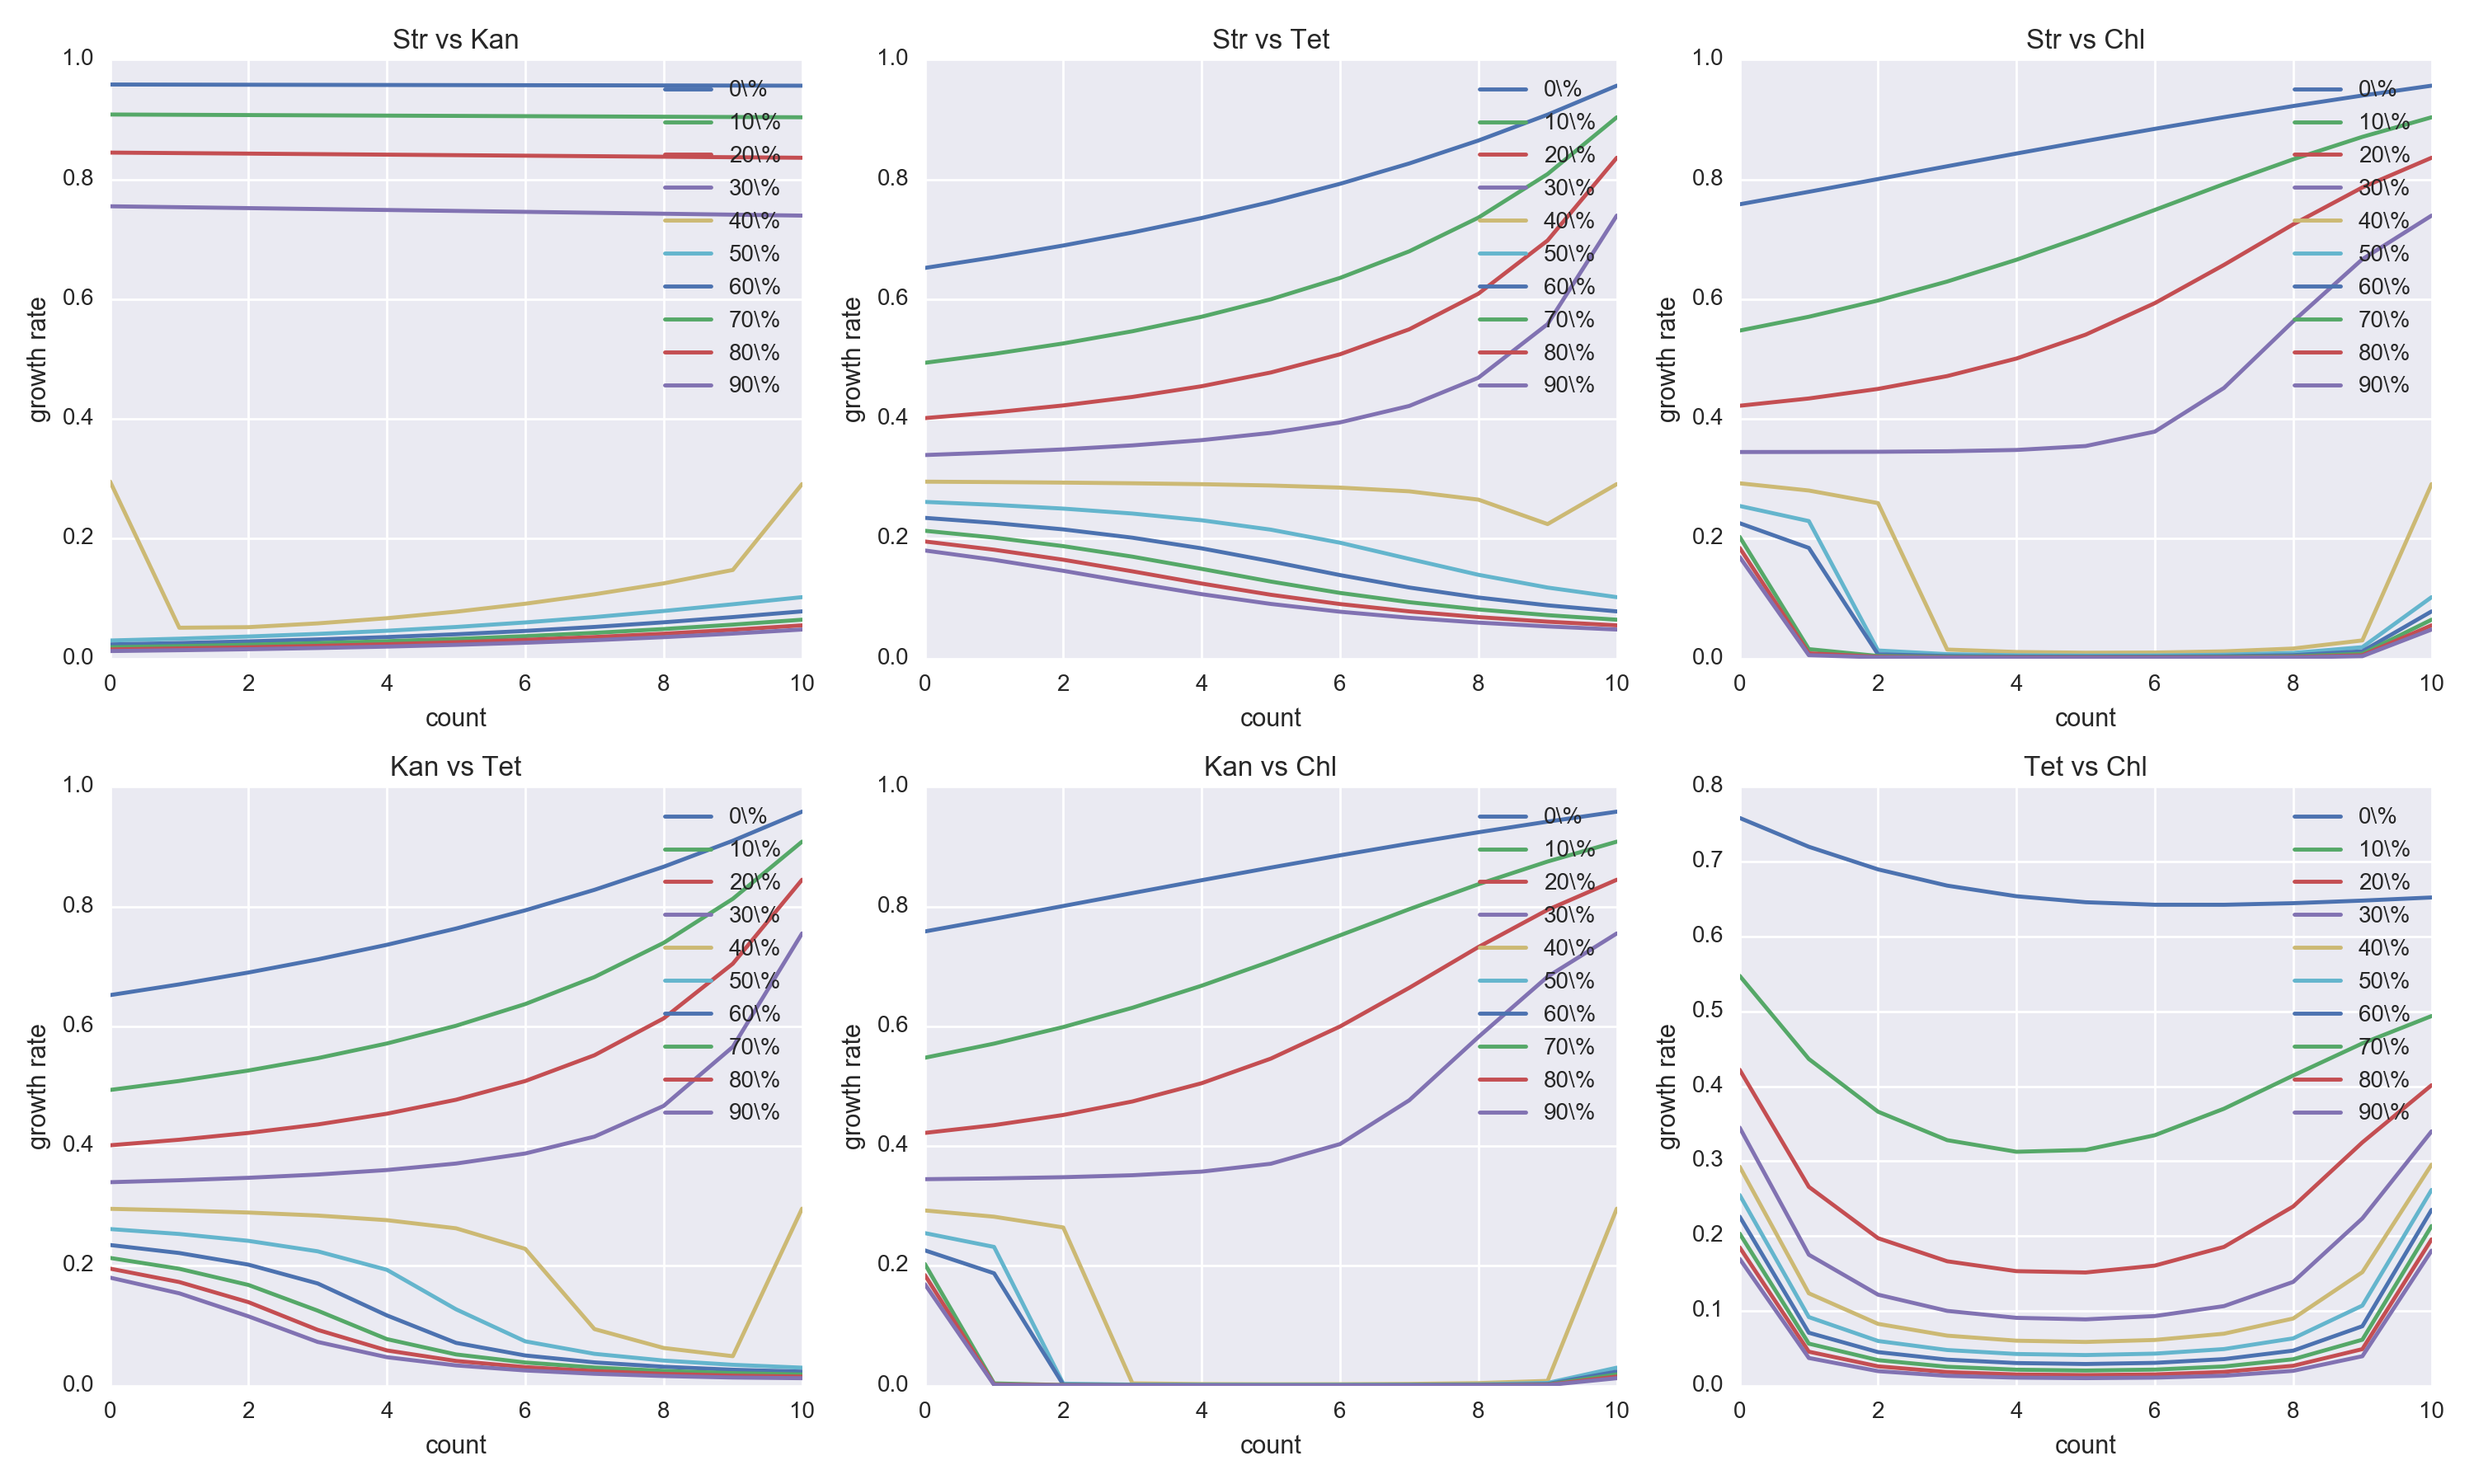
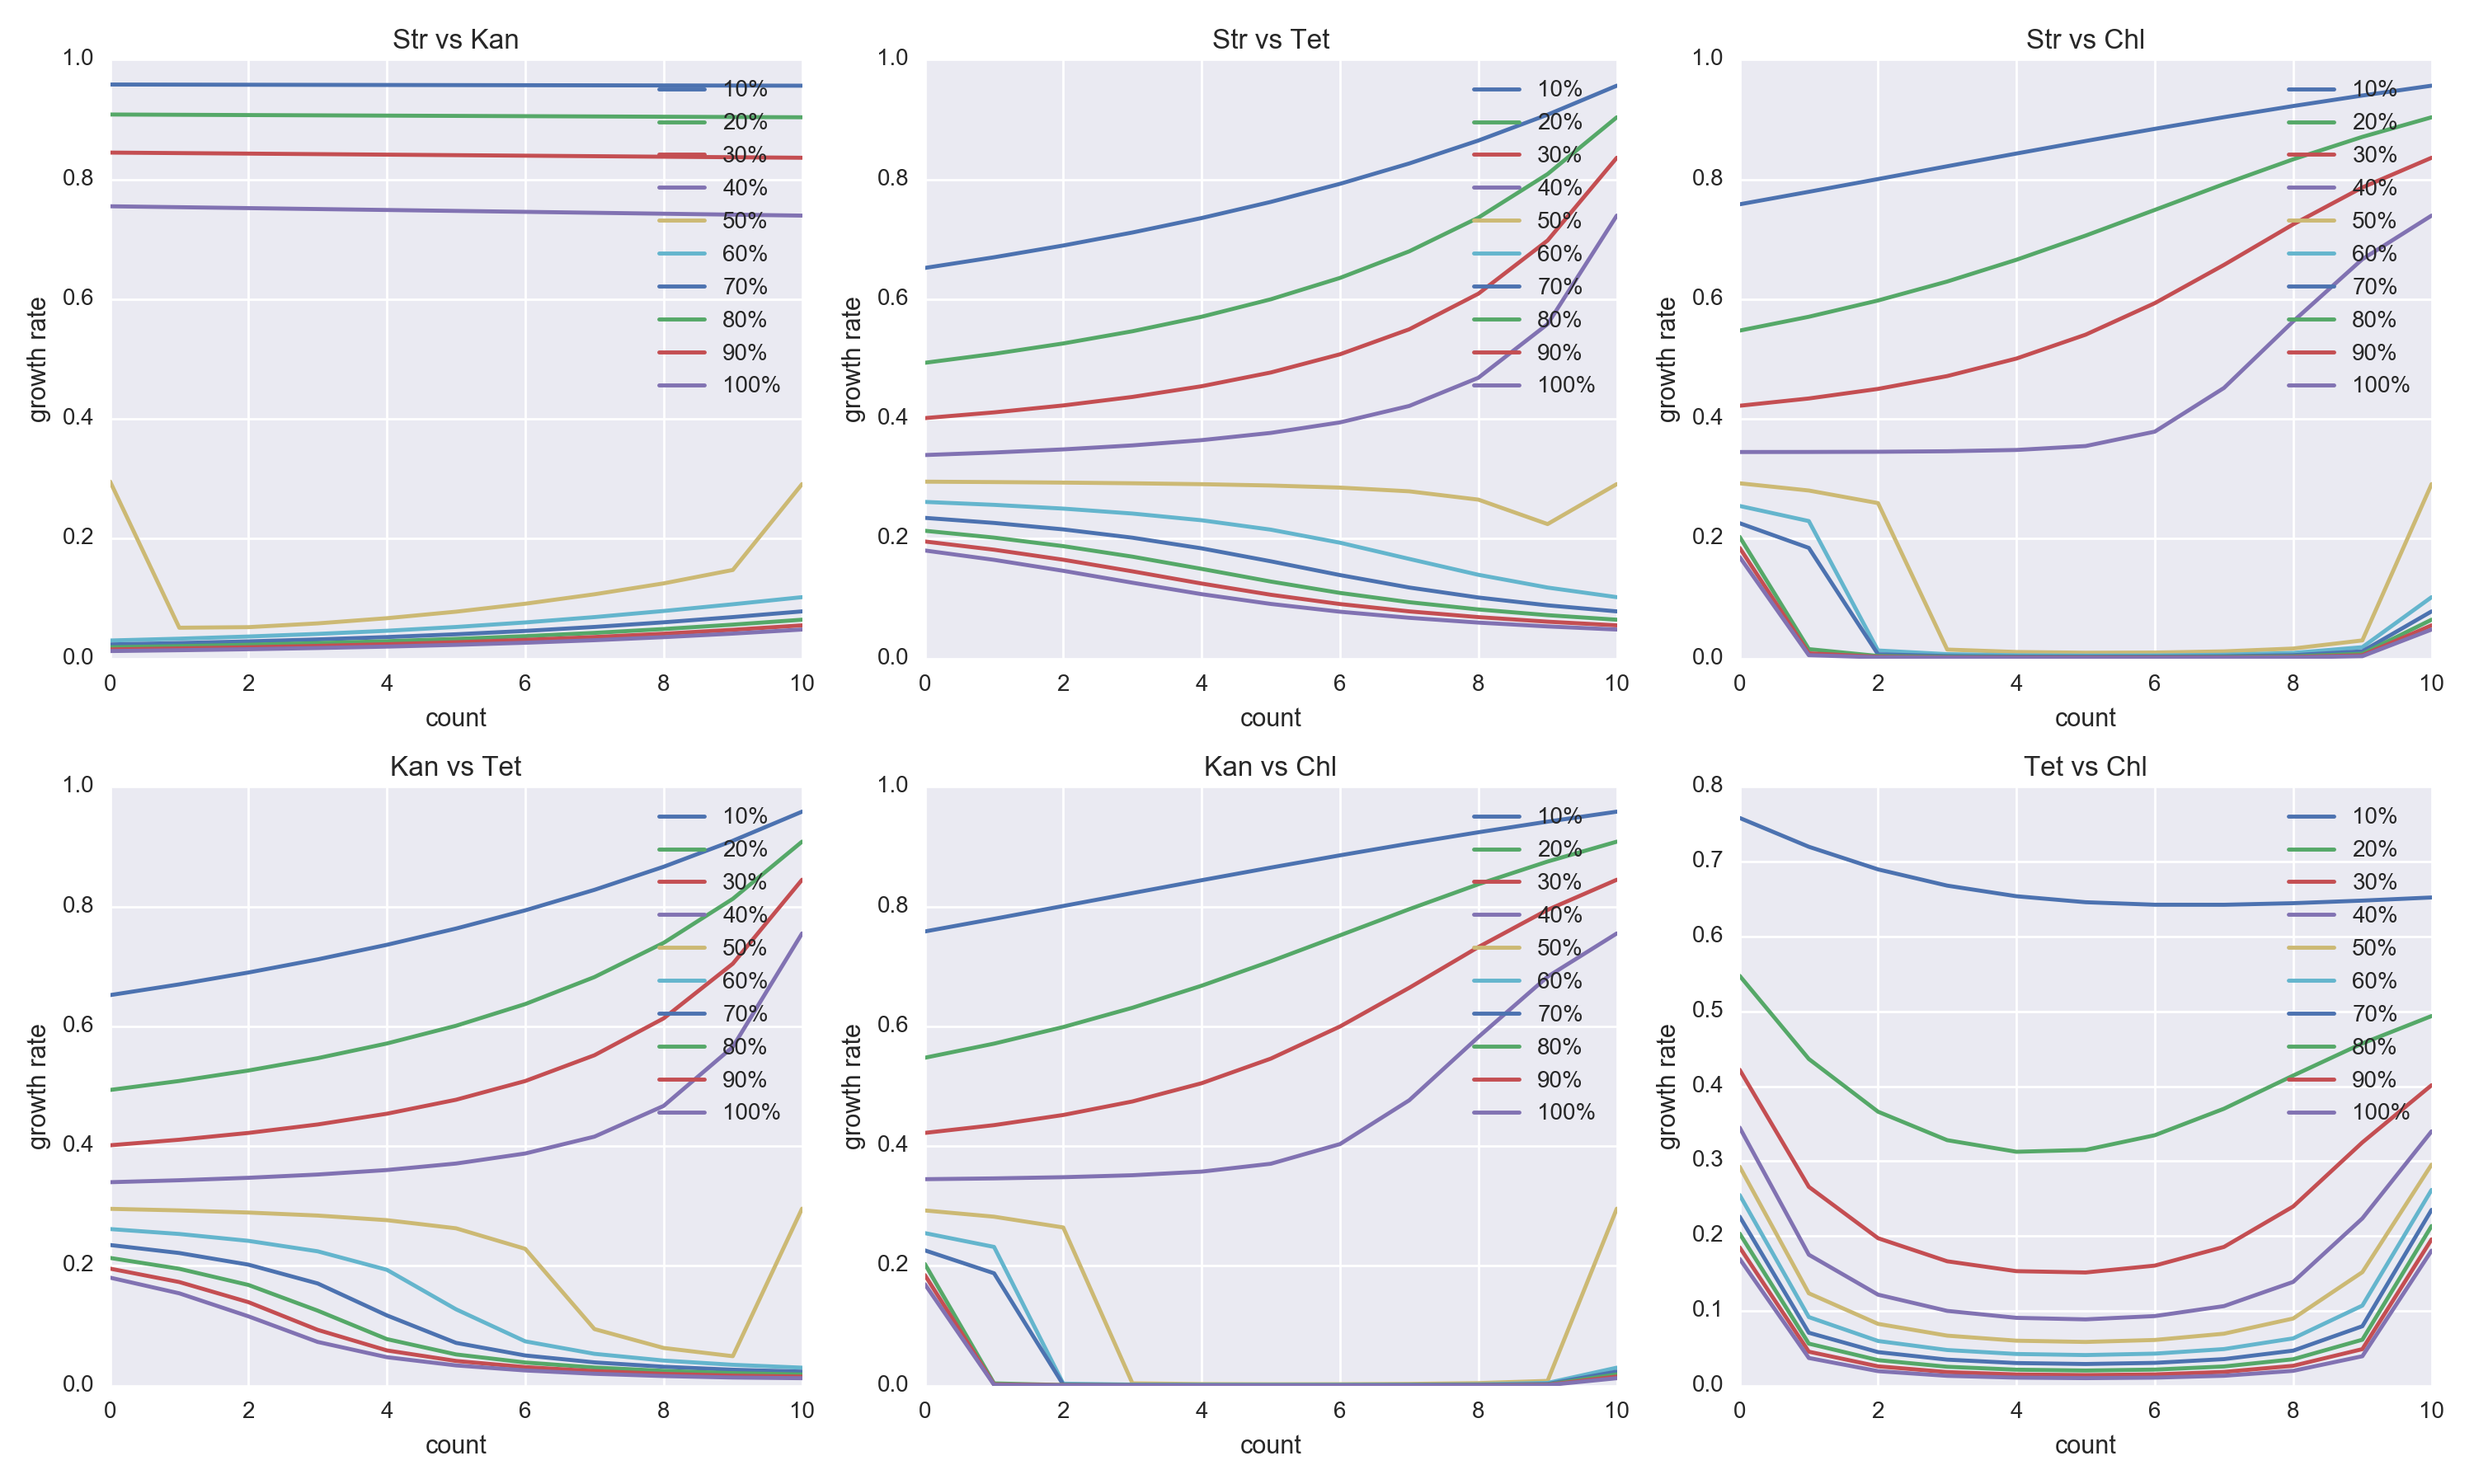
line chartの微修正

diff --git a/ribo4.py b/ribo4.py
@@ -259,11 +259,14 @@ def calcGrowthrate(a, r_min=19.3, K_t=6.1*10**-2, Lambda_0=1.35):
     result = (a - r_min) * K_t / Lambda_0
     return result
 
-def checkLinerType(a):
+def checkLinerType(inp):
+    """
+    input: growth rate list
+    """
     num = 0
     before = 0
     count = 0
-    for index, i in enumerate(a):
+    for index, i in enumerate(inp):
         if index > 0:
             if before == 0:
                 if num < i: # 増えてるとき
@@ -470,7 +473,7 @@ if __name__ == "__main__":
         data = np.array(result_list)
         plt.subplot(2, 3, index+1)
         for i in range(len(data.T)-1):
-            plt.plot(data.T[0], data.T[i + 1], label="{}\%".format(i * 10))
+            plt.plot(data.T[0], data.T[i + 1], label="{}%".format((i + 1) * 10))
         plt.xlabel("count")
         plt.ylabel("growth rate")
         plt.legend(loc="upper right")
